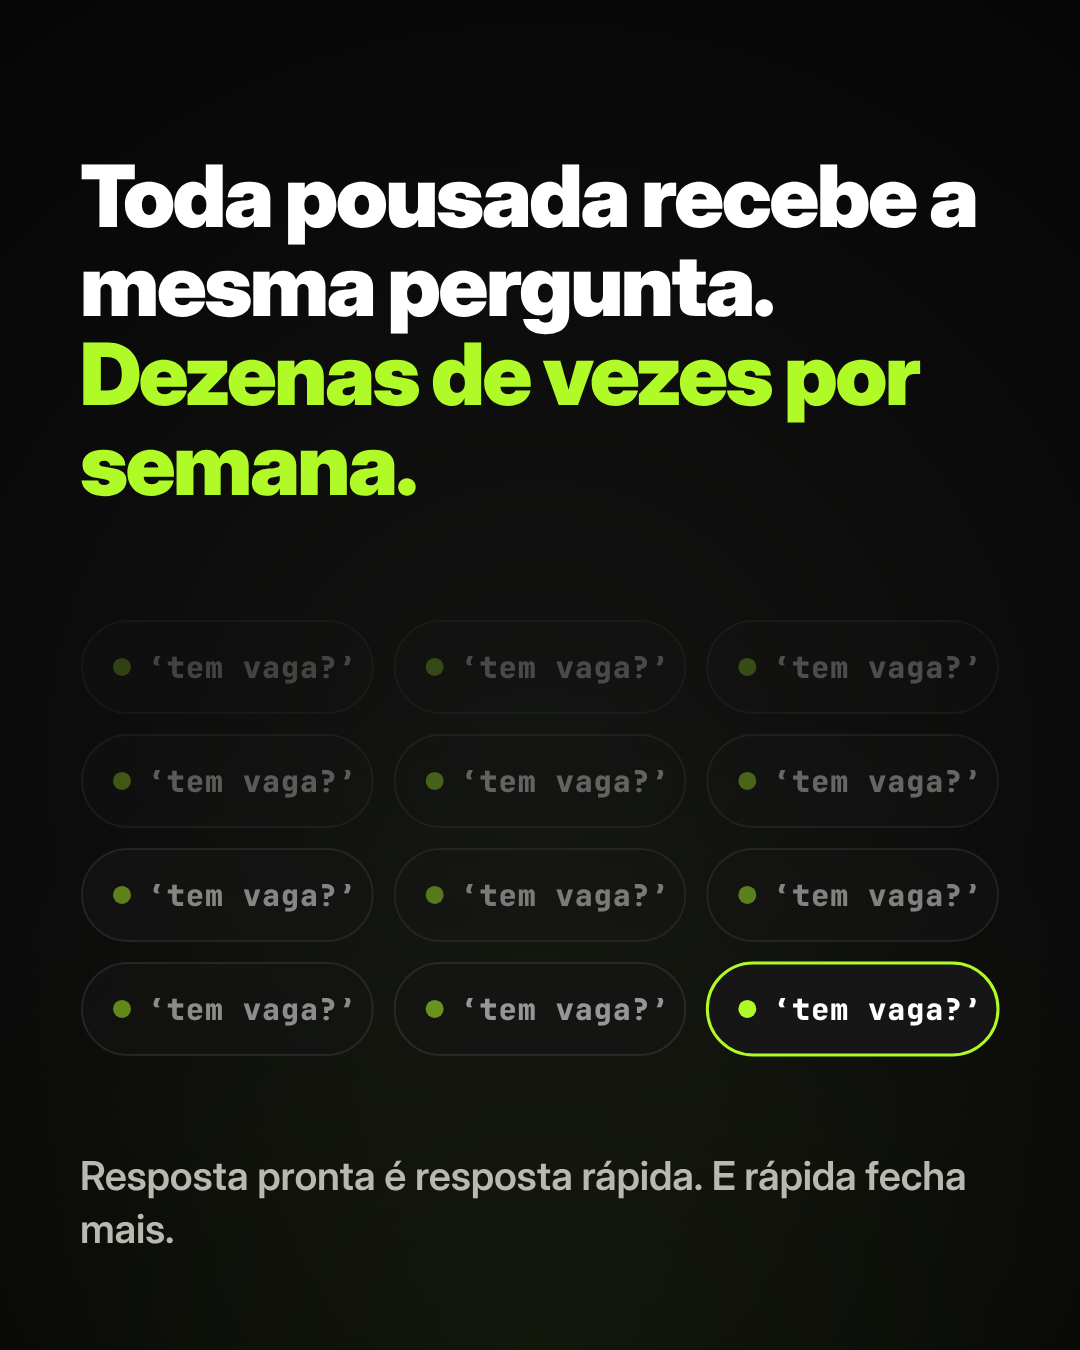
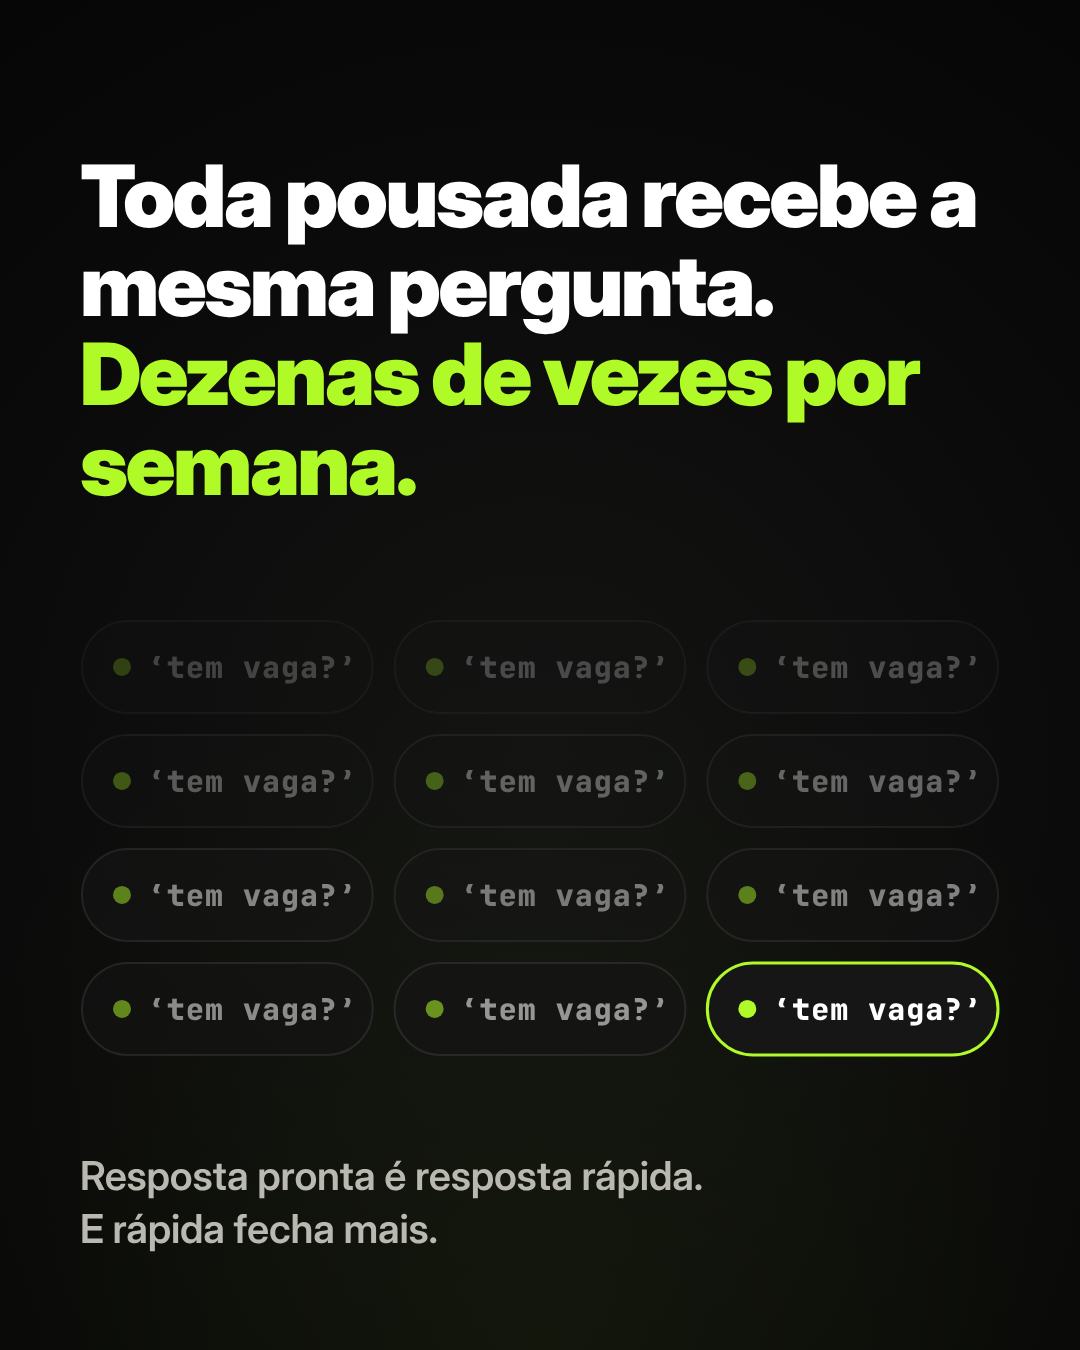
Carrossel 02: pontuação colada nos campos (slides 3, 6, 7) e apoio do slide 2 em duas linhas
Claude-Session: https://claude.ai/code/session_01VtfABab3CujWc3vKrYh53h

Changed region(s): [[0.6722, 0.84, 0.8861, 0.9022], [0.0611, 0.9022, 0.3972, 0.9333]]

diff --git a/carrosseis/carrossel-02/src/slides.js b/carrosseis/carrossel-02/src/slides.js
@@ -75,10 +75,12 @@
     drawLines(ctx, wr, font, o.x || M, base, size * lh, o.align);
     return { size, top, bottom: base + (wr.lines.length - 1) * size * lh + size * 0.24, lines: wr.lines.length };
   }
+  // text: uma frase (quebra automática) ou uma lista de linhas (quebra definida, para não deixar palavra sozinha)
   function support(ctx, text, o = {}) {
     const size = o.size || SUPPORT, lh = size * 1.32;
     const font = { fam: DISPLAY, size, weight: 600, ls: -0.005 * size };
-    const wr = wrap(ctx, [{ t: text, c: o.color || C.gray }], font, o.maxW || CW);
+    const segs = (Array.isArray(text) ? text : [text]).map((t, i) => ({ t, c: o.color || C.gray, br: i > 0 }));
+    const wr = wrap(ctx, segs, font, o.maxW || CW);
     const first = (o.bottom || L.supportBottom) - (wr.lines.length - 1) * lh - size * 0.22;
     drawLines(ctx, wr, font, o.x || M, first, lh, o.align);
     return { top: first - size * 0.75 };
@@ -142,10 +144,17 @@
     const sp = tw(ctx, ' ', font.fam, size, 700, font.ls);
     const NB = '\u00A0';                                  // [campos com espaços] não quebram no meio
     const words = text.replace(/\[[^\]]+\]/g, (m) => m.replace(/ /g, NB)).split(' ').filter(Boolean).map((wd) => {
-      const runs = wd.replace(new RegExp(NB, 'g'), ' ').split(/(\[[^\]]+\])/).filter(Boolean).map((r) => {
+      const parts = wd.replace(new RegExp(NB, 'g'), ' ').split(/(\[[^\]]+\])/).filter(Boolean);
+      const runs = parts.map((r, i) => {
         const ph = /^\[.*\]$/.test(r);
-        const w = ph ? tw(ctx, r, MONO, phSize, 800) + 16 : tw(ctx, r, font.fam, size, 700, font.ls);
-        return { t: r, ph, w };
+        if (!ph) return { t: r, ph, w: tw(ctx, r, font.fam, size, 700, font.ls) };
+        // pontuação colada no campo ("[nome]!", "[X]%", "[chave]."): a caixa do campo fecha 3 px depois do
+        // fim desenhado do "]" (sem a folga lateral da fonte mono) e a pontuação vem logo em seguida
+        const glued = i + 1 < parts.length;
+        setFont(ctx, MONO, phSize, 800);
+        const ink = ctx.measureText(r).actualBoundingBoxRight;
+        const w = glued ? 8 + ink + 3 : tw(ctx, r, MONO, phSize, 800) + 16;
+        return { t: r, ph, w, box: w };
       });
       return { runs, w: runs.reduce((a, r) => a + r.w, 0) };
     });
@@ -174,7 +183,7 @@
       ln.words.forEach((w) => {
         w.runs.forEach((r) => {
           if (r.ph) {
-            rr(ctx, x, y - phSize * 0.98, r.w, phSize * 1.32, 10); ctx.fillStyle = 'rgba(10,10,10,0.13)'; ctx.fill();
+            rr(ctx, x, y - phSize * 0.98, r.box, phSize * 1.32, 10); ctx.fillStyle = 'rgba(10,10,10,0.13)'; ctx.fill();
             setFont(ctx, MONO, phSize, 800); ctx.fillStyle = C.ink; ctx.fillText(r.t, x + 8, y - 1);
           } else {
             setFont(ctx, font.fam, size, 700, font.ls); ctx.fillStyle = C.ink; ctx.fillText(r.t, x, y);
@@ -252,7 +261,7 @@
     },
     // 2 · o problema: a mesma pergunta, dezenas de vezes
     2(ctx) {
-      const sp = support(ctx, 'Resposta pronta é resposta rápida. E rápida fecha mais.');
+      const sp = support(ctx, ['Resposta pronta é resposta rápida.', 'E rápida fecha mais.']);
       const t = title(ctx, [{ t: 'Toda pousada recebe a mesma pergunta.', c: W_ }, { t: 'Dezenas de vezes por semana.', c: Li, br: true }], L.titleTop0, { max: 96 });
       // uma parede de cards "tem vaga?" (o desenho dos cards da série: #161616, borda, ponto limão), 4 fileiras de 3,
       // mais apagados no fundo e acendendo para a frente; o último, inteiro e com borda limão: a pergunta de agora

diff --git a/carrosseis/carrossel-02/README.md b/carrosseis/carrossel-02/README.md
@@ -30,6 +30,13 @@ Carrossel estático para o Instagram, para ser salvo e copiado por donos de pous
 
 Os títulos dos slides 3 a 7 vêm do roteiro em caixa alta ("1 · QUANDO TEM VAGA"). O número vai para a trilha de passos, "QUANDO"/"PARA" fica em branco e a situação em limão. Os cinco usam o mesmo corpo (88 px), para a sequência ter o mesmo peso ao arrastar.
 
+## Ajustes da aprovação (17/10)
+
+1. **Pontuação colada nos campos** (slides 3, 6 e 7): "`[nome]`!", "`[datas]`:", "`[chalé]`,", "`[X]`%", "`[chave]`." e "`[condição]`.", sem espaço. Quando a pontuação vem logo depois do campo, a caixa do campo fecha 3 px depois do fim desenhado do "]" (sem a folga lateral da fonte mono) e a pontuação entra em seguida. Campos sem pontuação (slides 4 e 5) não mudaram: os PNGs deles saem idênticos, pixel a pixel.
+2. **Slide 2, o apoio:** quebra definida em duas linhas equilibradas, "Resposta pronta é resposta rápida." / "E rápida fecha mais.", sem "mais." sozinho.
+
+Re-renderizados só os slides 02, 03, 06 e 07.
+
 ## Do modelo do Carrossel 01
 
 - **O mesmo código:** fundo, trilha de passos, título que se ajusta à caixa, apoio, chip, "ARRASTA →", bolha do "VOCÊ" e logo vêm do `slides.js` do Carrossel 01.
